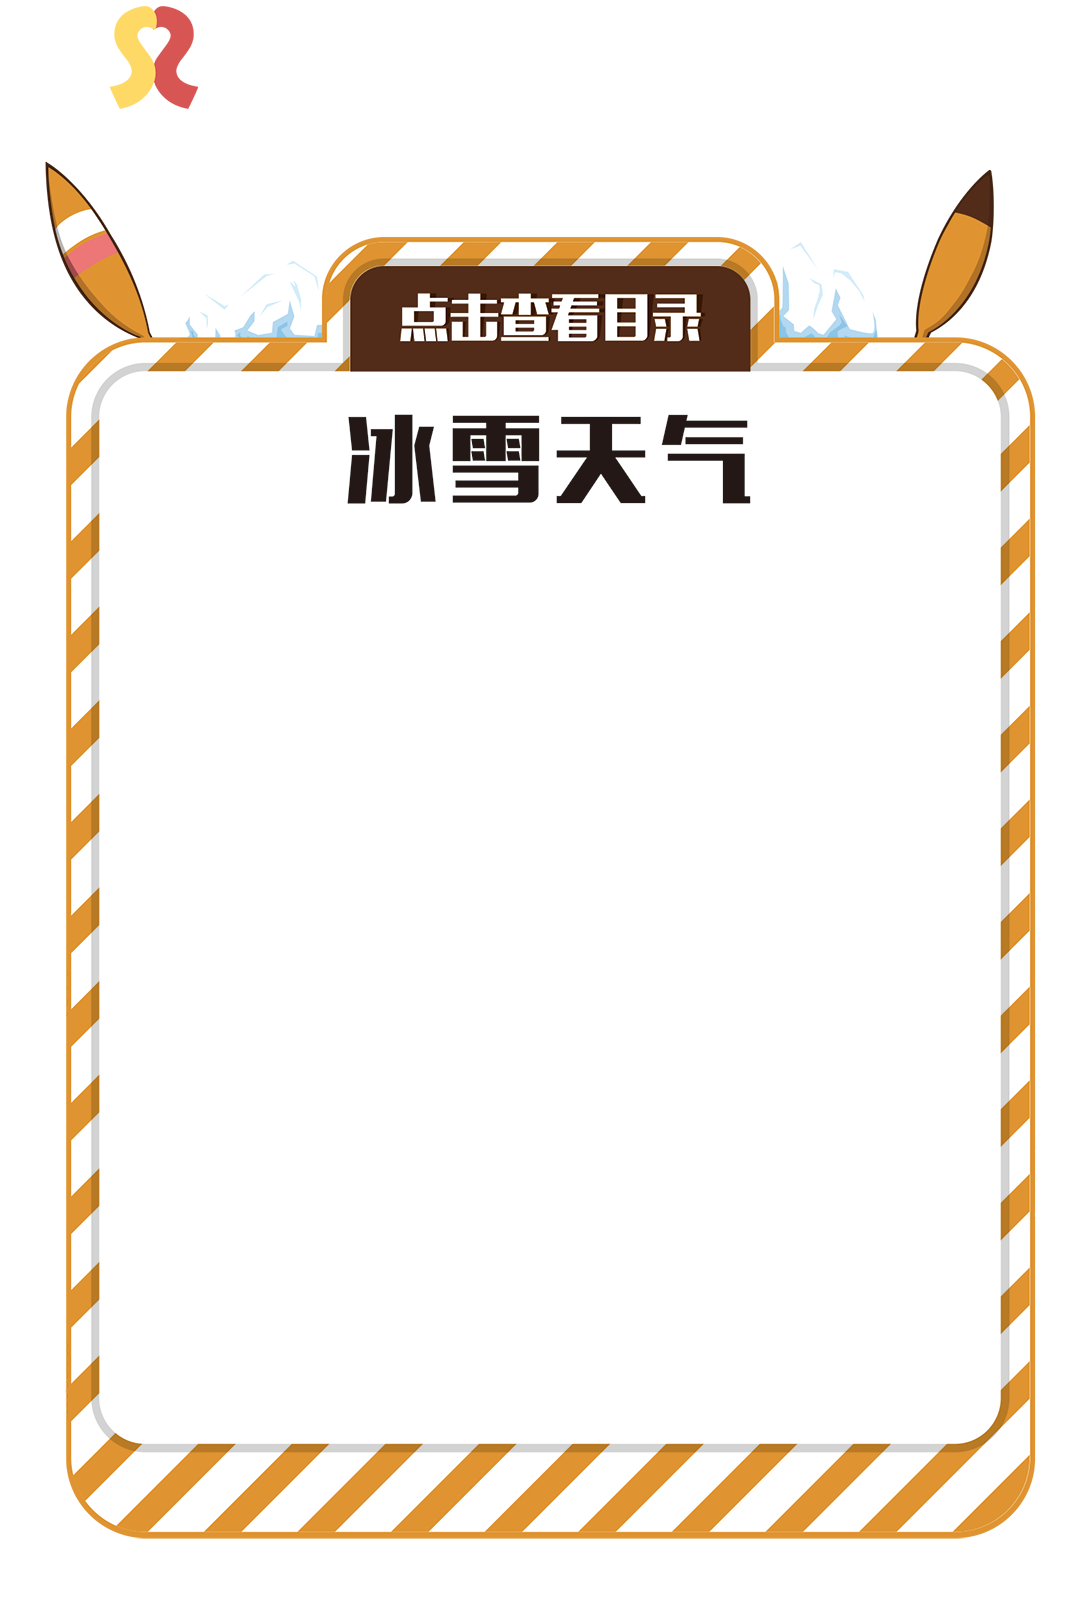
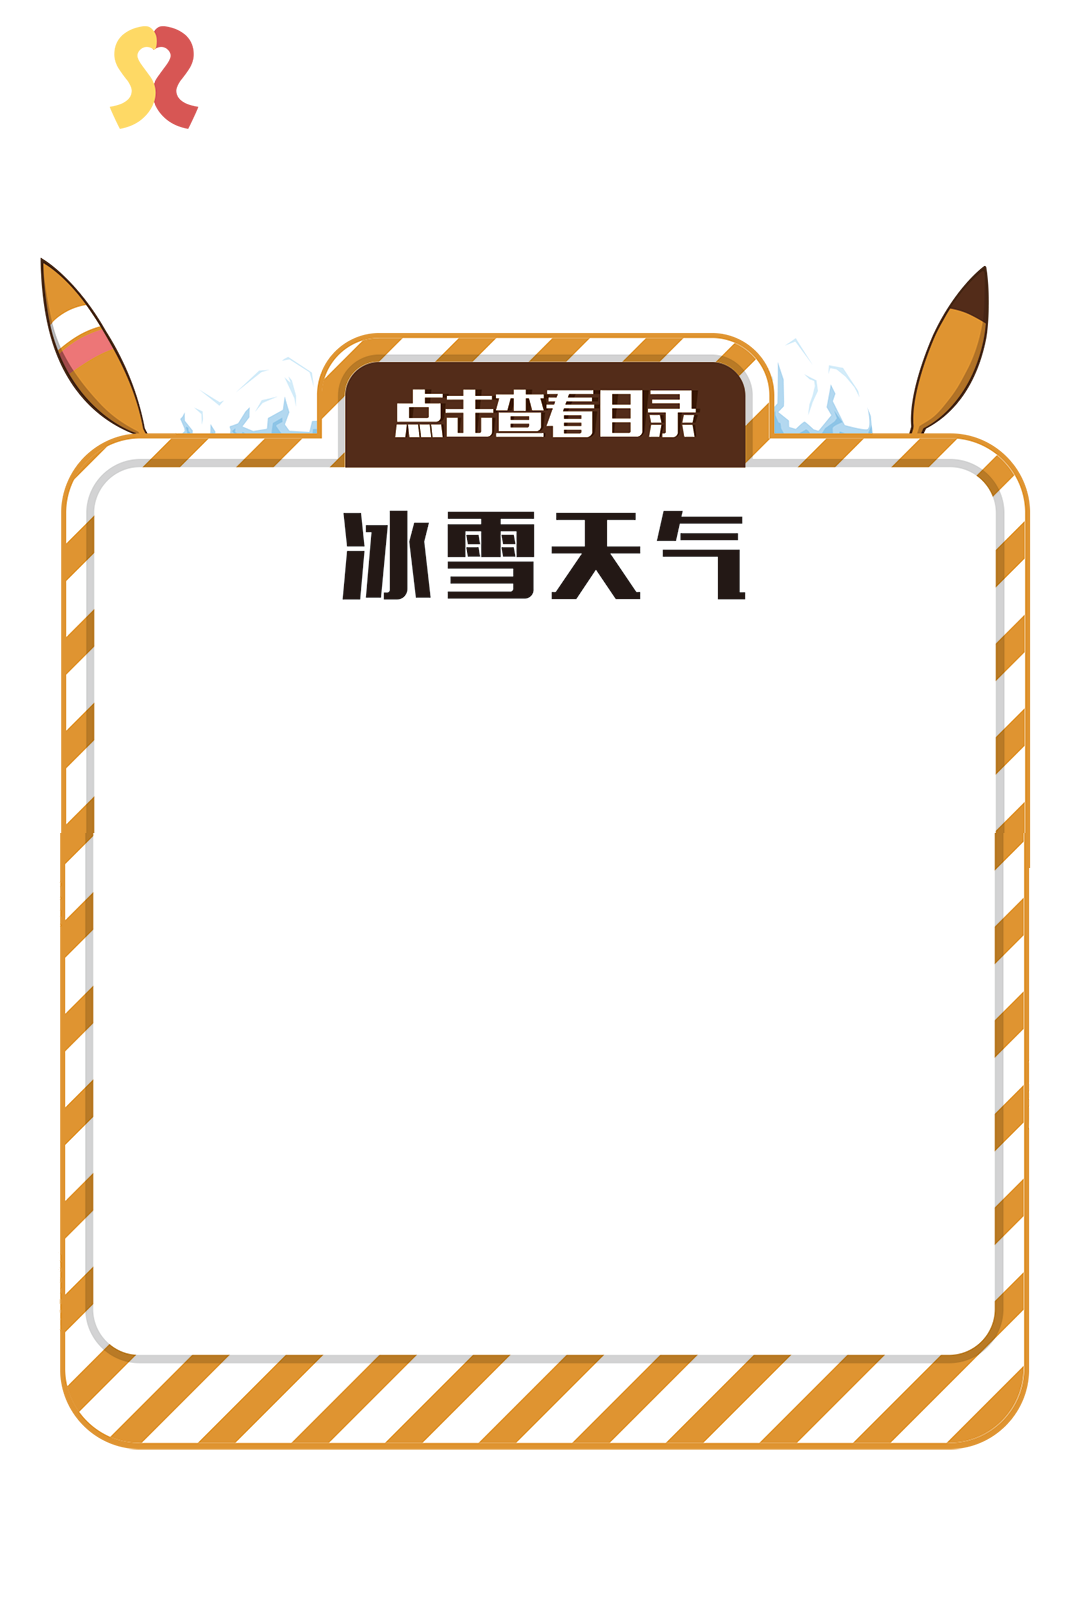
页面调整

Changed region(s): [[0.0306, 0.0926, 0.9778, 0.9568], [0.0917, 0.0, 0.1833, 0.0926]]

diff --git a/Mobile/styles/common.css b/Mobile/styles/common.css
@@ -268,7 +268,7 @@
 }
 .aboutus .aboutus_text_box {
     display: block;
-    width: 70%;
+    width: 65%;
     height: 62%;
     margin: 7% auto;
     overflow: hidden;
@@ -304,12 +304,19 @@
     background: url("../images/chapter/chapter_bg.png");
     background-size: 100% 100%;
 }
+.chaptercontainer .chapter_content_bg {
+    width: 100%;
+    height: 100%;
+    background: url("../images/chapter/chapter_content_bg.png") no-repeat;
+    background-size: 100% auto;
+    background-position: center center;
+}
 .chaptercontainer a.icon_section {
     position: absolute;
     display: block;
     width: 37%;
-    height: 6%;
-    bottom: 71%;
+    height: 7%;
+    top: 22.5%;
     left: 50%;
     margin-left: -18%;
     background: rgba(0,0,0,0);
@@ -317,23 +324,14 @@
 .chaptercontainer img.icon_home {
     position: absolute;
     width: 37%;
-    height: 13%;
+    /*height: 13%;*/
     bottom: 6%;
     left: 50%;
     margin-left: -18.5%;
 }
-.chaptercontainer .notice {
-    position: absolute;
-    font-size: 81%;
-    bottom: 1.35%;
-    color: #515151;
-    left: 13.5%;
-    width: 73%;
-    text-align: center;
-}
 .chaptercontent {
     position: absolute;
-    top: 30%;
+    top: 37.5%;
 }
 .chaptercontent .icon_chapter_title {
     display: block;
@@ -355,7 +353,7 @@
 .content_tab .content_tab_item {
     display: block;
     float: left;
-    width: 33%;
+    width: 33.3%;
     overflow: hidden;
 }
 .content_tab .content_tab_item img.content_tab_item_img, .content_tab .content_tab_item img.content_tab_item_img_hover {
@@ -377,7 +375,7 @@
     display: none;
     position: absolute;
     width: 75%;
-    height: 275%;
+    height: 447%;
     font-size: 12px;
     overflow-x: hidden;
     overflow-y: auto;

diff --git a/Mobile/views/chapter.html b/Mobile/views/chapter.html
@@ -1,10 +1,11 @@
 <div class="page chaptercontainer">
+    <div class="chapter_content_bg"></div>
     <div id="FavBox" class="favbox">
         <img src="images/followus/followus_close.png" class="favbox_close" ng-click="hideFav($event)">
+        <img src="images/book/book_fav_bg.png" class="favbox_text">
     </div>
     <a href="#/book/bookid/1" class="icon_section"></a>
 	<div class="chaptercontent">
-		<img src="images/chapter/chapter_title.png" class="icon_chapter_title">
         <div id="ContentBox" class="contentbox">
             <div class="content_tab">
                 <div class="content_tab_item">
@@ -56,5 +57,5 @@
 	</div>
 	<img src="images/book/icon_fav.png" class="icon_fav" ng-click="showFav($event)">
 	<a href="#/"><img src="images/chapter/icon_home.png" class="icon_home"></a>
-	<div ng-include="'views/notice.html'"></div>
+    <img src="images/copyright_text_yellow.png" class="notice">
 </div>
